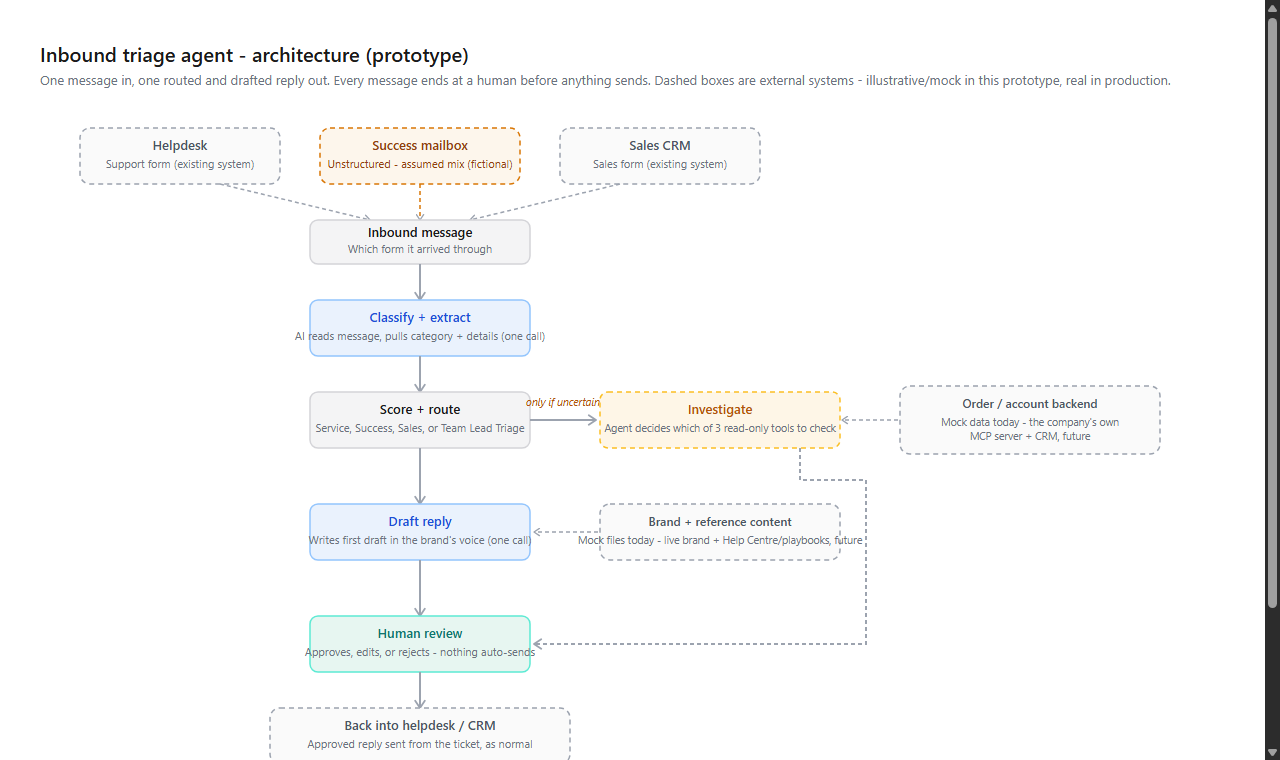
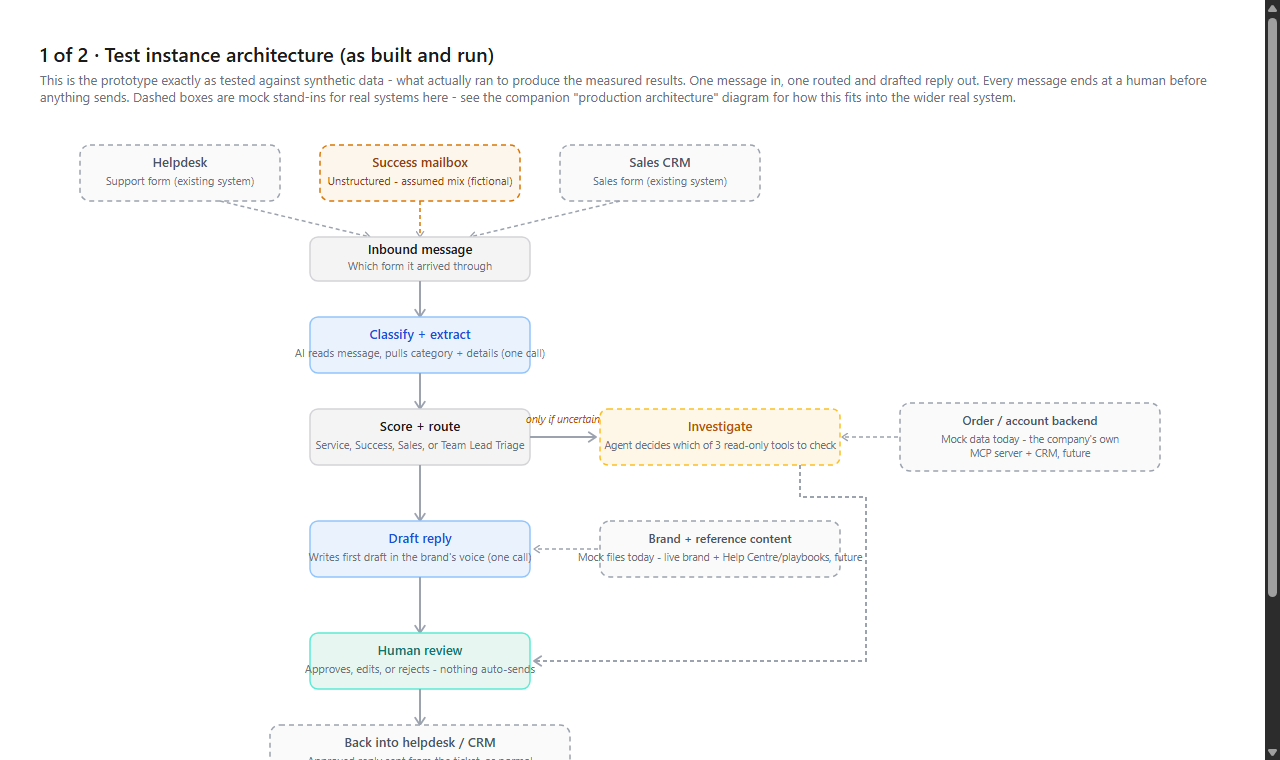
Clarify architecture diagram as "1 of 2" (test instance vs production)
A companion production-architecture diagram (real systems, company-
named) now exists as a private, non-public counterpart - this diagram
is explicitly framed as the test-instance view to set up that
contrast, rather than presenting itself as the whole picture.

diff --git a/deck/architecture_diagram.html b/deck/architecture_diagram.html
@@ -18,8 +18,8 @@
 </head>
 <body>
 <div class="canvas">
-  <h1>Inbound triage agent - architecture (prototype)</h1>
-  <div class="sub">One message in, one routed and drafted reply out. Every message ends at a human before anything sends. Dashed boxes are external systems - illustrative/mock in this prototype, real in production.</div>
+  <h1>1 of 2 &middot; Test instance architecture (as built and run)</h1>
+  <div class="sub">This is the prototype exactly as tested against synthetic data - what actually ran to produce the measured results. One message in, one routed and drafted reply out. Every message ends at a human before anything sends. Dashed boxes are mock stand-ins for real systems here - see the companion "production architecture" diagram for how this fits into the wider real system.</div>
 
   <svg width="100%" viewBox="0 0 1200 700" role="img">
     <title>AI triage pipeline flow with linked external systems</title>